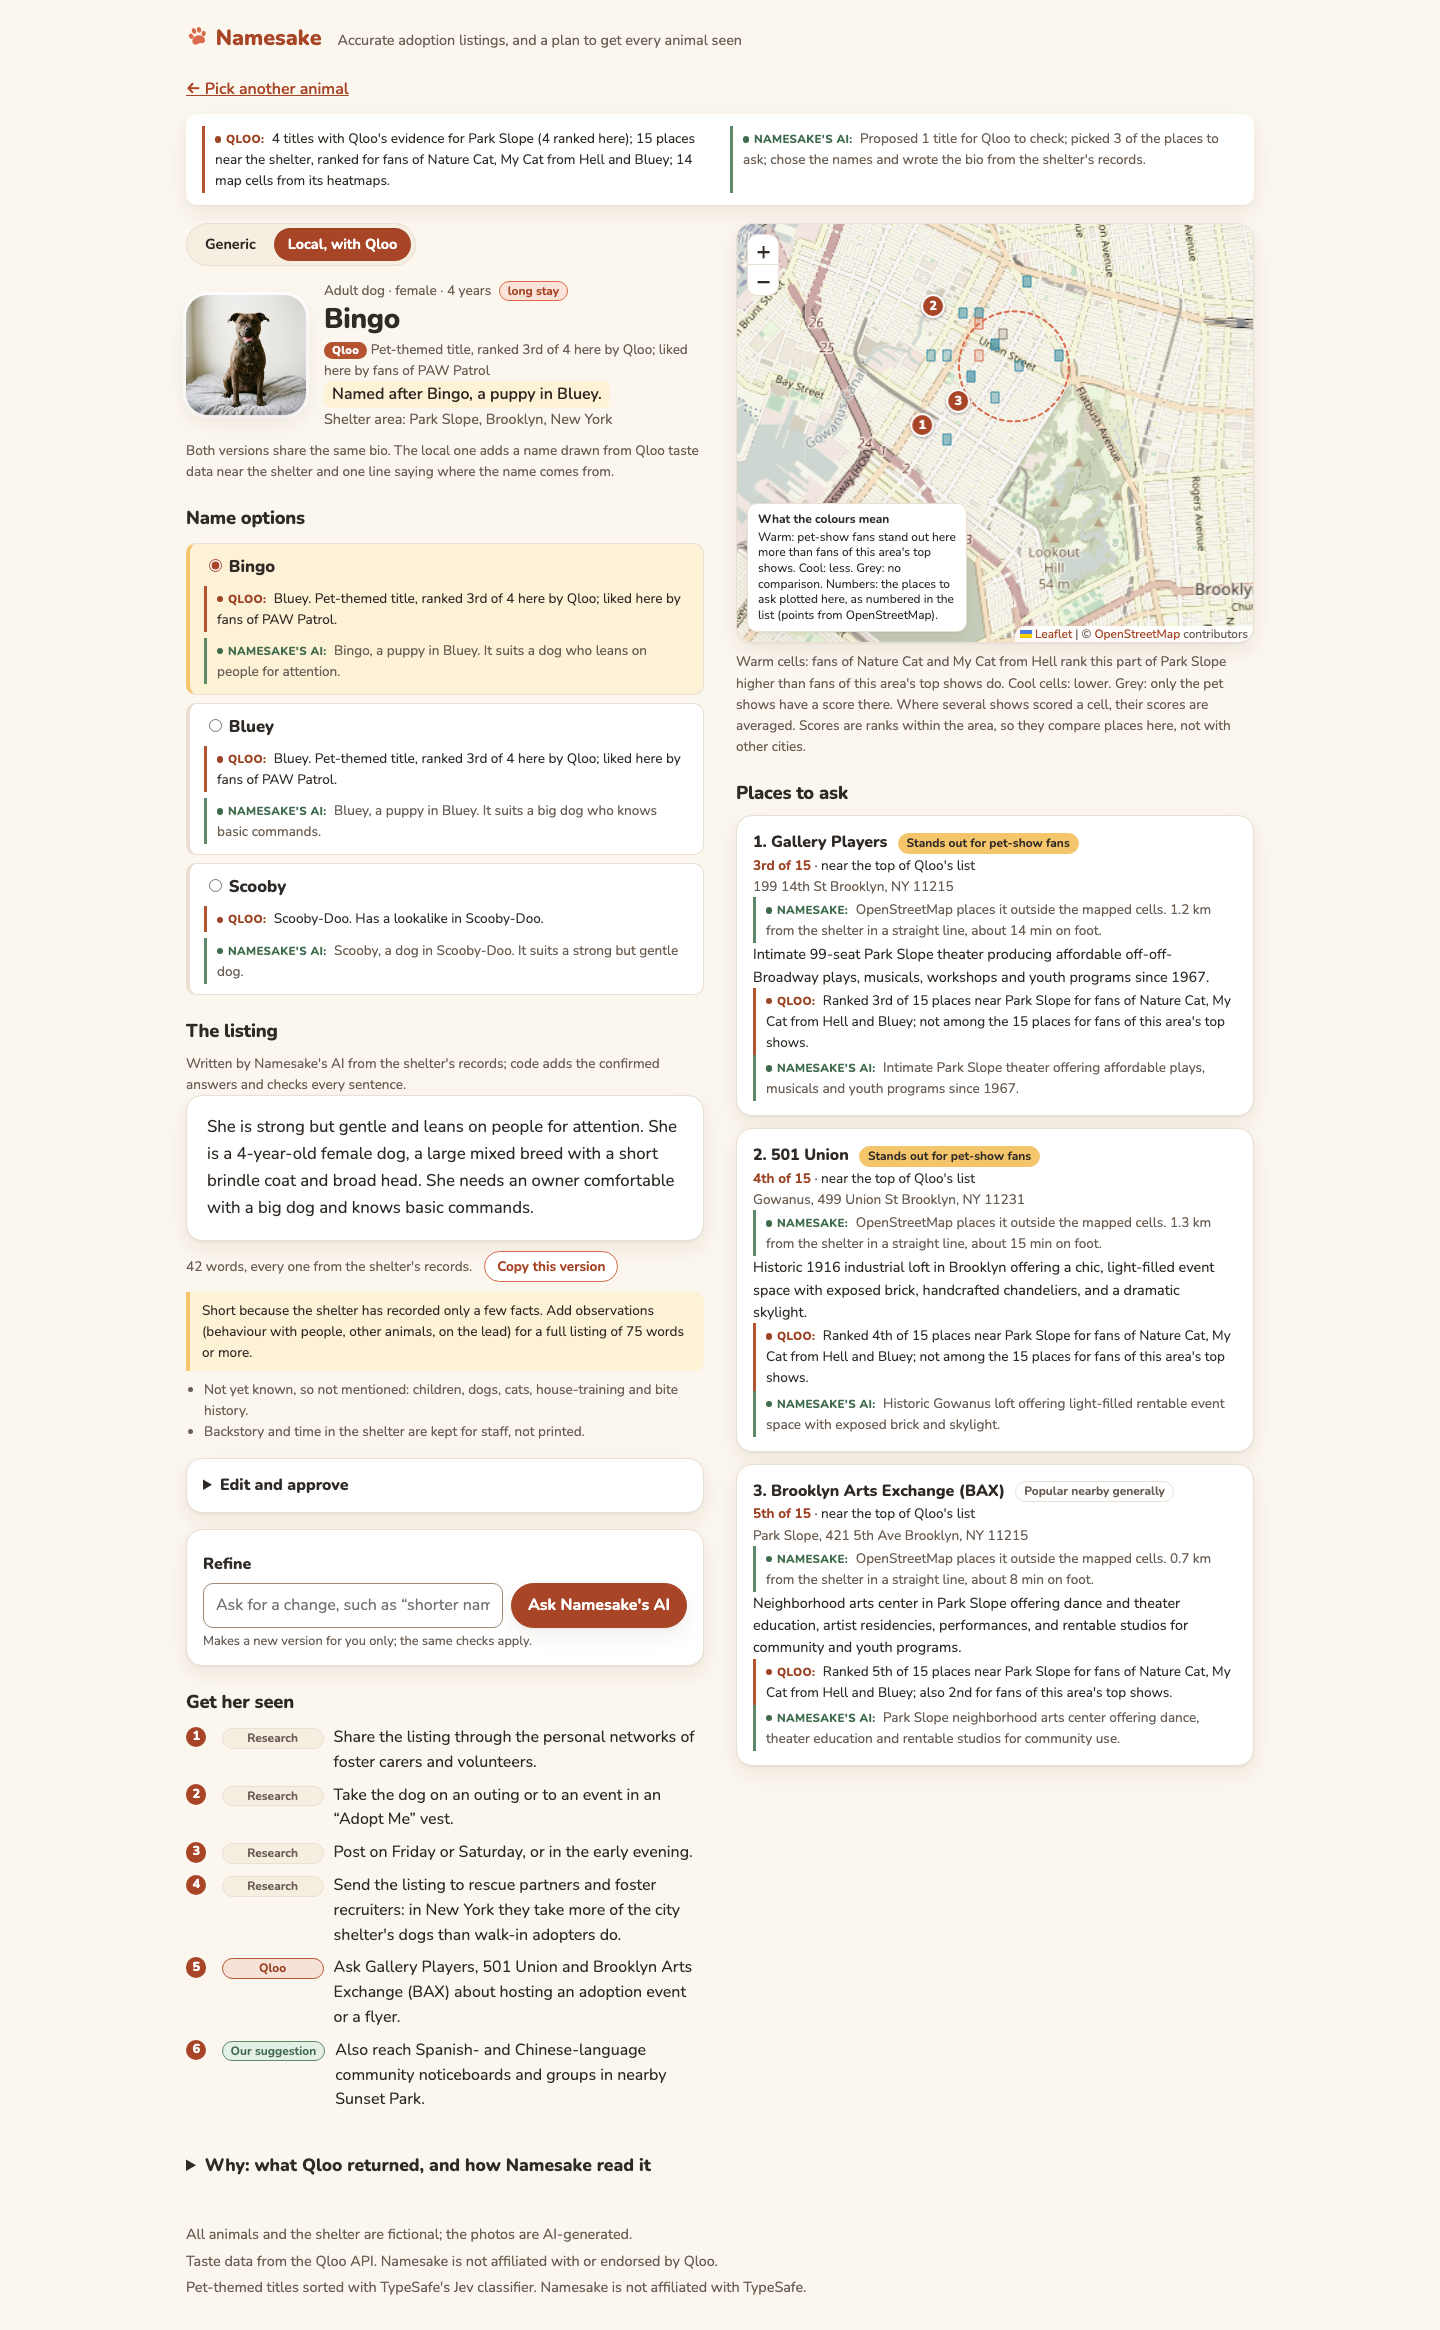
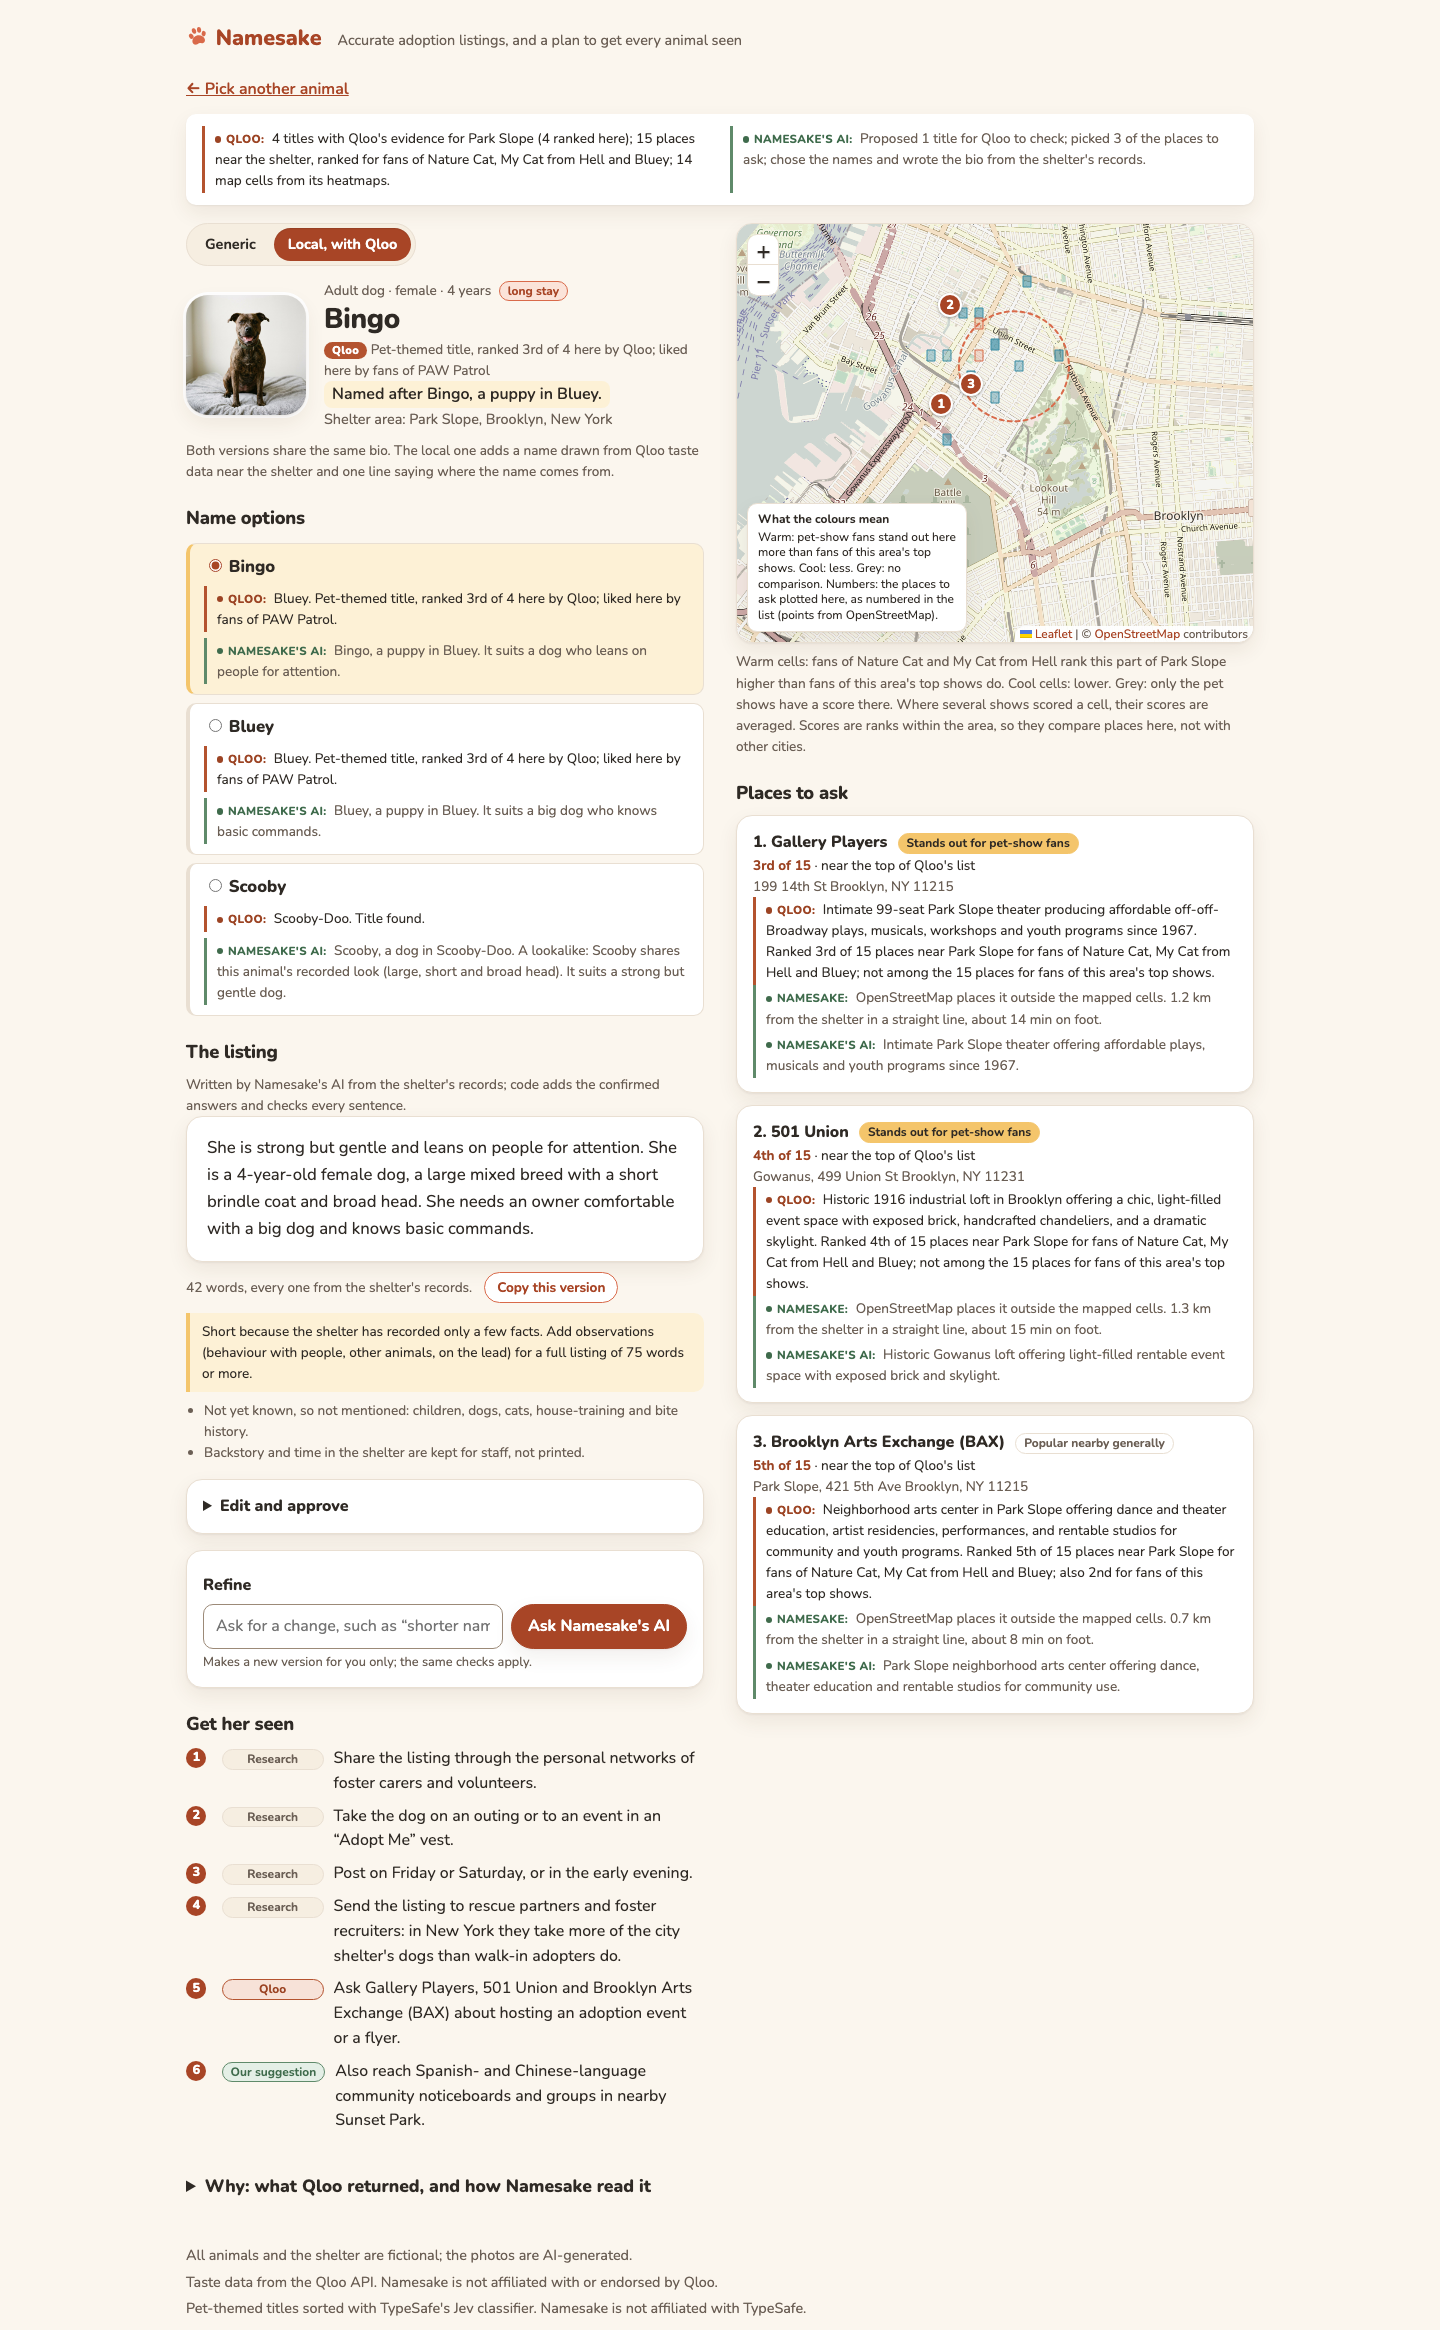
Screenshot retaken after #29; alt text says what the map shows
The page now shows the lookalike's Qloo line as "Title found" and each
venue's Qloo description on its Qloo line. The alt text says "a map of where
pet-show fans stand out against fans of the area's top shows" instead of
the internal term "lift map" (muse), and names Qloo's venue descriptions.

diff --git a/README.md b/README.md
@@ -14,7 +14,7 @@ A **generic version** of the listing sits beside the **local version**, so you c
 
 Built for the [Qloo Agentic Hackathon](https://qloo-hackathon.devpost.com/). Taste data from the Qloo API; not affiliated with Qloo.
 
-![The result screen for the lead dog in Park Slope: a strip at the top with what Qloo returned and what Namesake's AI did, side by side; the local listing with its Qloo-sourced name; name options with Qloo's answer and the reading of Namesake's AI kept apart; the lift map with the places to ask as numbered pins; three places with their Qloo rank; and the exposure checklist](docs/img/result.png)
+![The result screen for the lead dog in Park Slope: a strip at the top with what Qloo returned and what Namesake's AI did, side by side; the local listing with its Qloo-sourced name; name options with Qloo's answer and the reading of Namesake's AI kept apart; a map of where pet-show fans stand out against fans of the area's top shows, with the places to ask as numbered pins; three places with Qloo's description and rank; and the exposure checklist](docs/img/result.png)
 
 ## The problem
 
